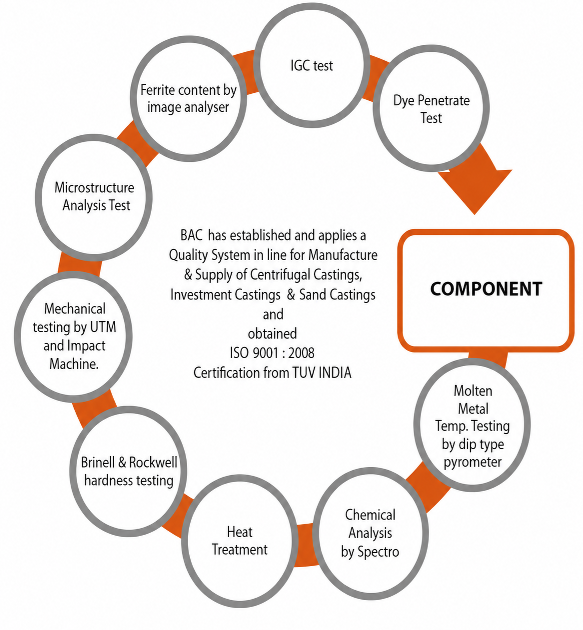
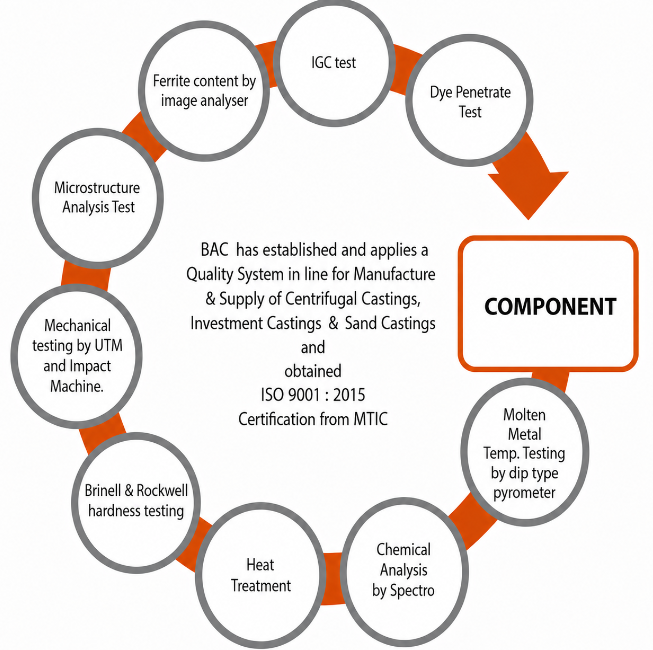
Update machine specifications and quality cycle diagram

Changed region(s): [[0.0, 0.0, 0.988, 1.0]]

diff --git a/src/pages/Capabilities.tsx b/src/pages/Capabilities.tsx
@@ -527,6 +527,10 @@ export const Capabilities: React.FC = () => {
                 Providing raw castings often leaves complex features unfinished. Bhumika's in-house machine shop bridges this gap by offering both <strong>CNC Turning</strong> and <strong>VMC (Vertical Machining Center) Milling</strong>, finishing parts to absolute tolerances.
               </p>
               <div className="grid grid-cols-2 gap-4 text-xs font-label-caps">
+                <div className="bg-steel-plate p-4 rounded col-span-2">
+                  <span className="text-secondary block font-bold mb-1">NUMBER OF MACHINES</span>
+                  22 CNC, 3 VMC
+                </div>
                 <div className="bg-steel-plate p-4 rounded">
                   <span className="text-secondary block font-bold mb-1">MACHINING LIMITS</span>
                   Sub-micron dimensional range

diff --git a/src/pages/About.tsx b/src/pages/About.tsx
@@ -186,7 +186,7 @@ export const About: React.FC = () => {
                 Most castings require final machining tolerances. Our machine shop handles complex components directly, avoiding third-party overhead.
               </p>
               <ul className="space-y-3 text-xs text-on-surface-variant pl-4 list-disc">
-                <li>CNC &amp; VMC (Vertical Machining Center) machining</li>
+                <li>Precision machining with 22 CNC and 3 VMC machines</li>
                 <li>High-performance CNC lathes for rotational turning</li>
                 <li>Conventional lathes, milling, and shaping rigs</li>
                 <li>Profile Projector for dimensional validation</li>
